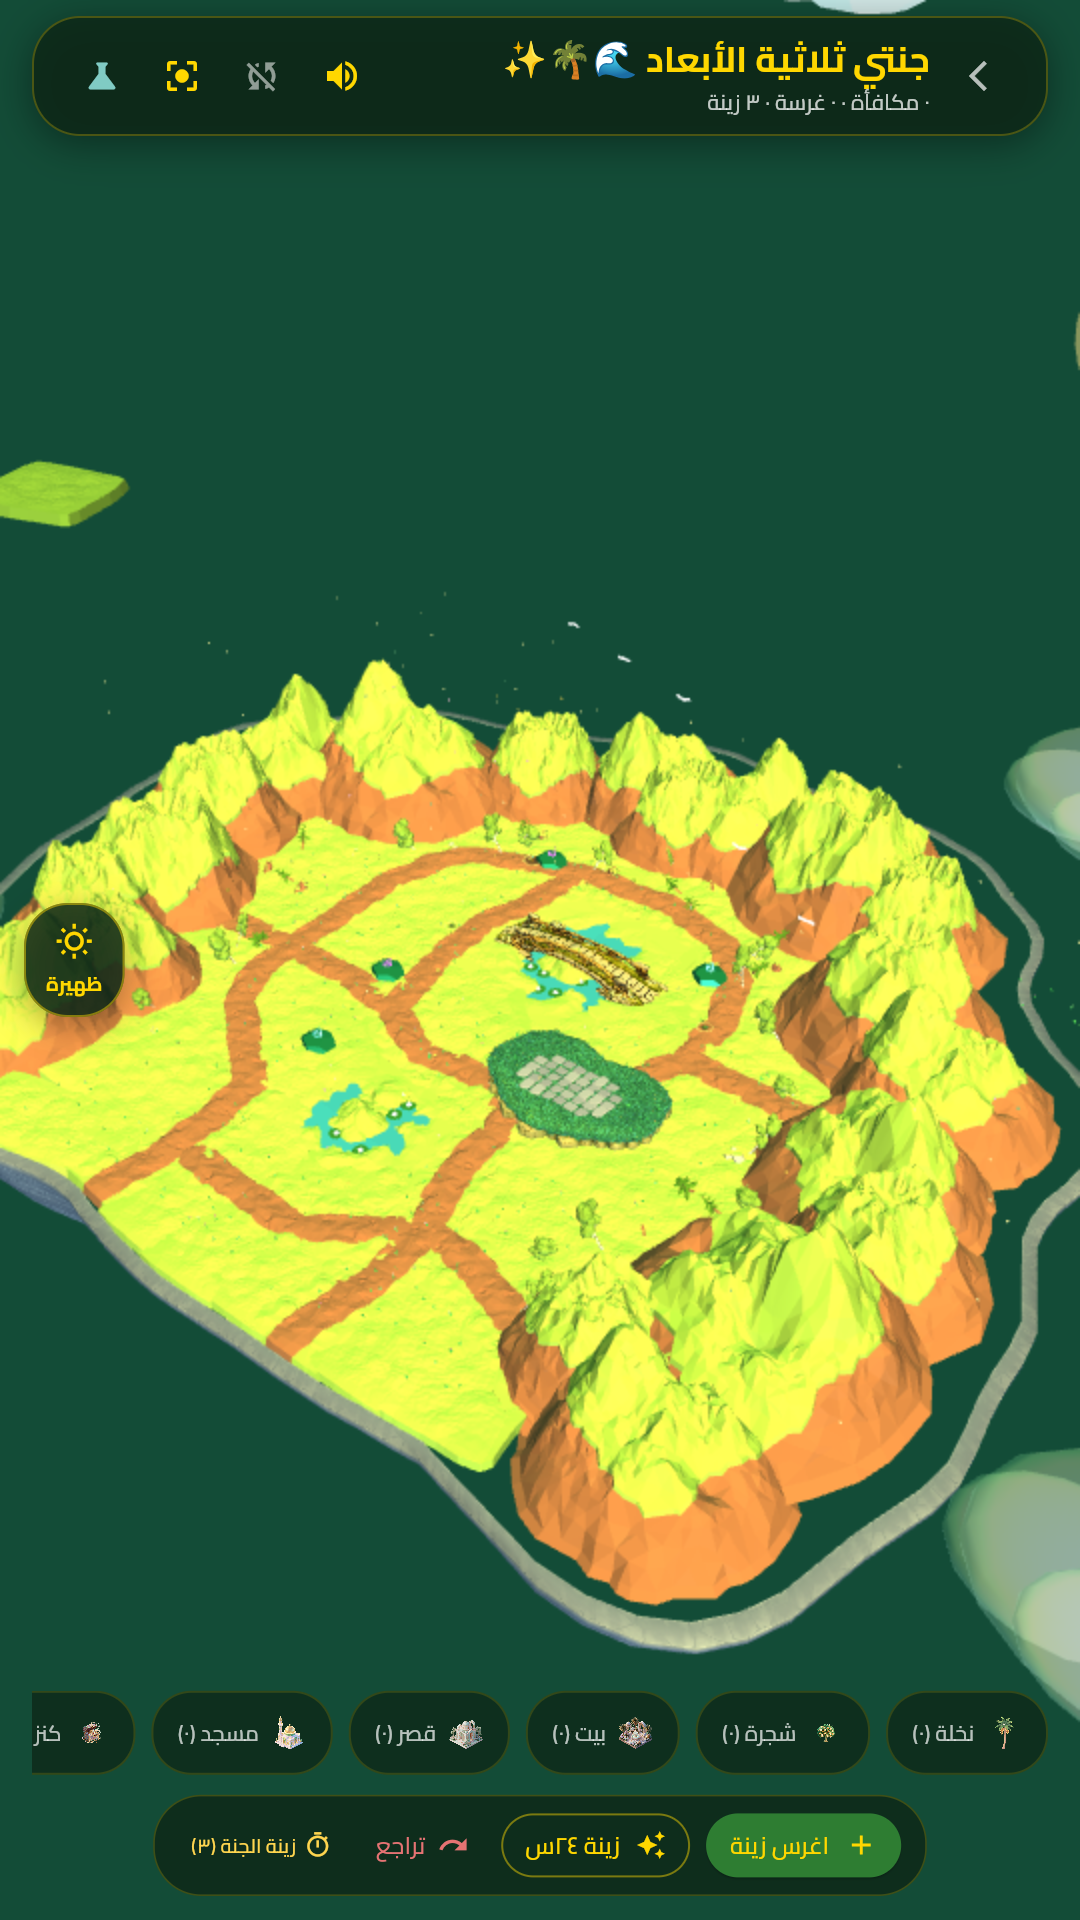
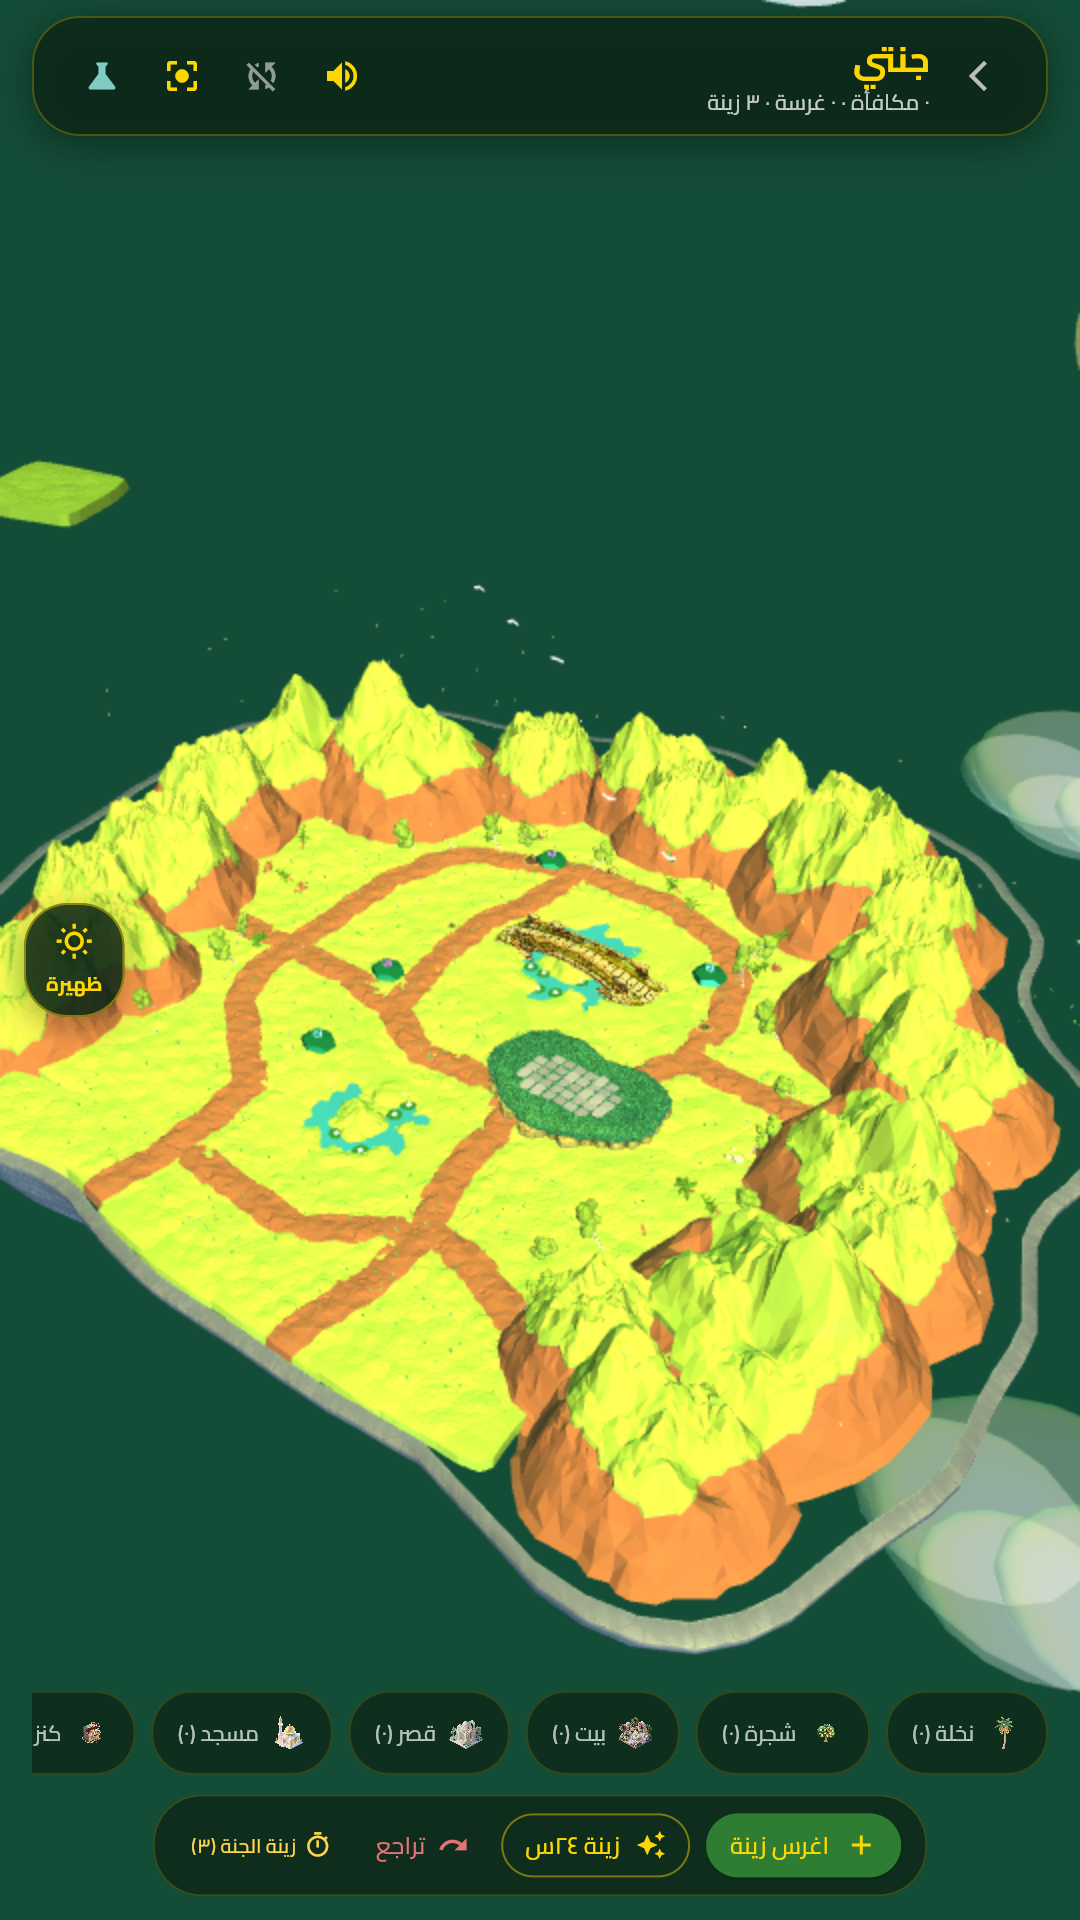
docs(store): إعادة تصدير لقطتي المتجر بعد B3

diff --git a/PROJECT.md b/PROJECT.md
@@ -185,9 +185,8 @@
 3. **خطان بنطاقين:** **Cairo** للواجهة و**Amiri** للنص الروحاني (الشعار،
    الأذكار، الآيات، الحديث) — §3.6/B1. ✅ 2026-11-17، وأُعيد Amiri بعد
    المراجعة البصرية لأن النص الروحاني بلا طابعه يفقد هويته.
-4. **لقطة المتجر الأولى** من كادر الافتتاح — §3.6/B2. الصورتان جاهزتان في
-   `docs/store/` (1080×1920 و1290×2796) و**B3 اكتمل 2026-11-18**، فإعادة
-   التصوير صارت الخطوة التالية.
+4. **لقطة المتجر الأولى** من كادر الافتتاح — §3.6/B2. ✅ 2026-11-19: الصورتان
+   محدَّثتان في `docs/store/` (1080×1920 و1290×2796) بعد B3.
 5. ~~**حاجب أول إقلاع** بلا ظهور تدريجي للبلاطات — §3.6/B3.~~ ✅ 2026-11-18.
 6. ضبط اللون/التباين عند مرحلتي التلوين.
 7. **لا keystore ولا `key.properties` في المستودع** — الإصدارات الحالية موقّعة
@@ -199,7 +198,7 @@
 | # | البند | النوع | الأولوية | الحالة |
 |---|-------|------|----------|--------|
 | B1 | خطان: Cairo للواجهة + Amiri للنص الروحاني | هوية | متوسطة | ✅ 2026-11-17 (أُعيد Amiri بعد المراجعة) |
-| B2 | لقطة الافتتاح = لقطة المتجر الأولى | إصدار | عالية | 🟡 لقطتان جاهزتان (1080×1920 · 1290×2796) — B3 اكتمل، فإعادة التصوير صارت جاهزة |
+| B2 | لقطة الافتتاح = لقطة المتجر الأولى | إصدار | عالية | ✅ 2026-11-19 — أُعيد التصدير بعد B3 والكادر مطابق للأصل |
 | B3 | حاجب أول إقلاع بدل ظهور البلاطات | انطباع أول | عالية | ✅ 2026-11-18 (٥ وحدات · مهلة ٢٥ث) |
 | B4 | صخور وجزر طافية حول الجزيرة من كل الجهات | بيئة | متوسطة | ⏳ |
 | B5 | تصغير المجسمات للإيحاء بالاتساع | بيئة | متوسطة | ⏳ |
@@ -207,7 +206,7 @@
 | B7 | حذف صفحة «الواحة 2.5D» | تنظيف | عالية | ✅ 2026-11-17 |
 | B8 | ريج وعظام لتأرجح السعف والأشجار | نماذج | ثقيلة | ⏳ مؤجّل — بديل الشادر نُفِّذ 2026-11-18 |
 
-**نُفِّذ من الدفعة:** B1 · B3 · B7 (وB2 جزئيًا: اللقطتان جاهزتان). الباقي قرارات وخطط، لا حالة.
+**نُفِّذ من الدفعة:** B1 · B2 · B3 · B7. الباقي قرارات وخطط، لا حالة.
 
 #### B1 — خطان بنطاقين: Cairo للواجهة و Amiri للنص الروحاني ✅ (2026-11-17)
 
@@ -230,7 +229,7 @@
 - **المتبقي:** ترحيل بقية الأنماط (**١٦٤ `TextStyle`** خارج `lib/theme`، قياس
   2026-11-19) إلى الأدوار على مراحل مع لقطة قبل/بعد لكل شاشة.
 
-#### B2 — لقطة الافتتاح = لقطة المتجر الأولى
+#### B2 — لقطة الافتتاح = لقطة المتجر الأولى ✅ (2026-11-19)
 
 - الكادر مثبَّت أصلًا بـ`_kHome*` = (150, 172, 180) → (0, 2, 0)، و`_resetCamera`
   يقرأ الثوابت نفسها، فاللقطة قابلة لإعادة الإنتاج.
@@ -241,6 +240,10 @@
   1290×2796 (1.60 MB)، من كادر `_kHome*` نفسه بلا قصّ ولا تحريك يدوي، وإضاءة
   الظهيرة مفروضة (`flutter.day_light_mode = 2`). خطوات إعادة الإنتاج في
   [`docs/store/README.md`](docs/store/README.md).
+- **أُعيد التصدير (2026-11-19):** بعد B3 صار العنوان «جنتي» وحده والحاجب لا يظهر.
+  الكادر مطابق للأصل بالبكسل (أول صف جزيرة: **468** في 1080 و**987** في 1290)،
+  والفرق المرئي محصور في شريط العنوان وحركة الجسيمات. أداة الحقن 🧪 ما زالت
+  ظاهرة في HUD لأن حذفها مؤجّل بقرار المستخدم.
 - **ملاحظة مقاس iPhone:** الضبط عبر `Emulation.setDeviceMetricsOverride` بعد
   بناء التخطيط يُبقي Flutter على مقاسه القديم فيخرج المحتوى مقصوصًا. الحل
   المعتمد: **صفحة جديدة** + `setViewportSize` **قبل** التحميل ثم DPR 2 عبر CDP.
@@ -248,7 +251,7 @@
   `(170, 130, 200)`؛ يُصحَّح مع B4، وإلا وُضعت الجزر الطافية على حساب كادر
   لم يبقَ قائمًا.
 - **الشرط:** تُلتقط بعد استقرار المشهد لا أثناء دخول البلاطات؛ **B3 اكتمل
-  2026-11-18**، فاللقطتان الحاليتان **مرجع** وإعادة التصوير صارت جاهزة الآن.
+  2026-11-18**، واللقطتان أُعيد تصديرهما في 2026-11-19.
 
 #### B3 — حاجب أول إقلاع بدل ظهور البلاطات ✅ (2026-11-18)
 
@@ -418,8 +421,8 @@
 1. ~~B7 — حذف «الواحة 2.5D»~~ ✅ نُفِّذ 2026-11-17.
 2. ~~**B3 — حاجب أول إقلاع**~~ ✅ نُفِّذ 2026-11-18 (٥ وحدات · مهلة ٢٥ث).
 3. ~~**B1 — الخط: Cairo للواجهة وAmiri للنص الروحاني**~~ ✅ نُفِّذ 2026-11-17.
-4. **B2 — لقطة المتجر الأولى**: اللقطتان جاهزتان في `docs/store/`؛ **B3 اكتمل**،
-   فتُعاد الآن بعد استقرار المشهد.
+4. ~~**B2 — لقطة المتجر الأولى**~~ ✅ 2026-11-19: أُعيد تصدير اللقطتين بعد B3
+   بكادر مطابق للأصل.
 5. **9.4 — النهر السماوي**، ثم **B5 — تمريرة المقاييس**، ثم **B4 — الأرخبيل**.
 6. **B8 — الريج والعظام** (اختياري؛ التمايل الإجرائي v3 غطّى الحاجة مؤقتًا).
 7. **أداة الحقن 🧪** تُحذف قبل الإصدار — مؤجّلة بقرار المستخدم 2026-11-19.
@@ -507,6 +510,7 @@ flutter build web
 | 2026-11-17 | B1: إعادة Amiri بنطاق **٩ أدوار روحية** بجانب Cairo + حراسة النطاق | §3.6/B1 · `test/typography_test.dart` · `0471507` |
 | 2026-11-18 | B3: حاجب أول إقلاع داخل `Stack`، ٥ وحدات متتبَّعة، مهلة ٢٥ث، وعنوان «جنتي» وحده | §3.6/B3 · `cd9bf30` |
 | 2026-11-18 | 9.2: تأرجح السعف إجرائيًا في الشادر v3، بقياس ١٥٫١٤px للتاج و٠٫٢٤px للقاعدة | [`docs/evolution/2026-11-18-palm-sway/REPORT.html`](docs/evolution/2026-11-18-palm-sway/REPORT.html) · `96adb79` |
+| 2026-11-19 | B2: أُعيد تصدير لقطتي المتجر بعد B3 (العنوان «جنتي» وحده) بكادر مطابق للأصل | [`docs/store/README.md`](docs/store/README.md) · `01-home-1080x1920.png` · `01-home-1290x2796.png` |
 | 2026-11-19 | مزامنة هذا الملف مع الواقع: ١٠٢/١٠٢، B3 منفَّذ، ٦ مراحل بصرية، وإزالة كل ذكر حيّ لـ2D | §2 · §4 · §5 · §6 |
 
 **آخر كوميت قبل جلسة 2026-11-16:** `4463442` — «نمو فعلي للمراحل وأحجام واقعية للموديلات».

diff --git a/docs/store/README.md b/docs/store/README.md
@@ -52,6 +52,10 @@ await page.goto('http://127.0.0.1:8099/');
 
 > عند 540×960 استخدم بطاقة «جنتي 3D» لا الشريط السفلي: الشريط ملتصق بحافة
 > الشاشة وهندسة نقره أقل ثباتًا، والبطاقة هي ما أنتج لقطة 1080 فعليًا.
+>
+> عند 645×1398 الشريط السفلي يعمل عادةً، لكنه **لم يفتح** في تجربة
+> 2026-11-19 عند `(403,1355)`؛ البديل المضمون هو بطاقة **«جنتي 3D»**
+> نفسها عند `(482,262)`، وهي ما أنتج لقطة 1290 المحدَّثة.
 
 ### 4. انتظر استقرار المشهد ثم التقط
 
@@ -74,3 +78,6 @@ await page.goto('http://127.0.0.1:8099/');
   أصلي في `_kHome*` وليس خطأ قصّ.
 - بعد B3 (حاجب أول إقلاع) وB6 (أي تغيير بيئي) تُعاد اللقطتان بالخطوات نفسها
   وتُستبدل الملفات بأسمائها هذه.
+- **آخر تصدير: 2026-11-19** — أُعيدت اللقطتان بعد B3: العنوان صار «جنتي» وحده،
+  والحاجب لا يظهر. الكادر مطابق للأصل بالبكسل (أول صف جزيرة: **468px** في
+  1080 و**987px** في 1290)، وأداة الحقن 🧪 باقية في HUD بقرار مؤجّل.
